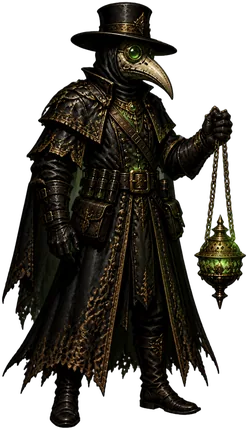
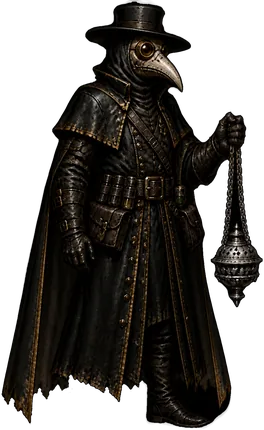
Médecin de peste : armure palier V repeinte (cuir et laiton, sans aura)
Claude-Session: https://claude.ai/code/session_01XuxscubMSQPeew8BrSfQGu

diff --git a/index.html b/index.html
@@ -242,7 +242,7 @@ p{margin:6px 0;line-height:1.45}
 <div id="boot"><div class="bootin"><img src="assets/ui_emblem.webp" alt="" onerror="this.remove()"><h1>Couronne de Cendres</h1><div class="bootbar"><i></i></div><div class="boottxt">Les braises s'allument…</div><button class="btn ghost sm" id="bootskip" style="display:none">Continuer sans attendre</button></div></div>
 <div id="toasts" aria-live="polite"></div>
 <script>window.CC_SW = 1;</script><script>
-window.ART_LIST=["bg_abime","bg_bastion","bg_bastion2","bg_bastion_port","bg_bastion_port_src","bg_bourg","bg_catacombes","bg_cimes","bg_citadelle","bg_cite","bg_foret","bg_marais","bg_mines","bg_terres","bg_titre","bg_trone","bg_worldmap","bld_academie","bld_academie_2","bld_academie_3","bld_chapelle","bld_chapelle_2","bld_chapelle_3","bld_fonderie","bld_fonderie_2","bld_fonderie_3","bld_forge","bld_forge_2","bld_forge_3","bld_menagerie","bld_menagerie_2","bld_menagerie_3","bld_porte","bld_taverne","bld_taverne_2","bld_taverne_3","hero_arbaletriere_chasseresse","hero_arbaletriere_t1","hero_arbaletriere_t2","hero_arbaletriere_t3","hero_arbaletriere_t4","hero_arbaletriere_t5","hero_arbaletriere_tireuse_elite","hero_berserker_chef_guerre","hero_berserker_ecorcheur","hero_berserker_t1","hero_berserker_t2","hero_berserker_t3","hero_berserker_t4","hero_berserker_t5","hero_chasseur_sorcieres_purificateur","hero_chasseur_sorcieres_t1","hero_chasseur_sorcieres_t2","hero_chasseur_sorcieres_t3","hero_chasseur_sorcieres_t4","hero_chasseur_sorcieres_t5","hero_chasseur_sorcieres_traqueur","hero_exorciste_confesseur","hero_exorciste_penitent","hero_exorciste_t1","hero_exorciste_t2","hero_exorciste_t3","hero_exorciste_t4","hero_exorciste_t5","hero_gardien_runes_forge_tonnerre","hero_gardien_runes_t1","hero_gardien_runes_t2","hero_gardien_runes_t3","hero_gardien_runes_t4","hero_gardien_runes_t5","hero_gardien_runes_thane_pierre","hero_hallebardier_garde_roi","hero_hallebardier_lansquenet","hero_hallebardier_t1","hero_hallebardier_t2","hero_hallebardier_t3","hero_hallebardier_t4","hero_hallebardier_t5","hero_medecin_peste_apothicaire","hero_medecin_peste_chirurgien","hero_medecin_peste_t1","hero_medecin_peste_t2","hero_medecin_peste_t3","hero_medecin_peste_t4","hero_medecin_peste_t5","hero_menestrel_chantre","hero_menestrel_heraut","hero_menestrel_t1","hero_menestrel_t2","hero_menestrel_t3","hero_menestrel_t4","hero_menestrel_t5","hero_necromancien_liche","hero_necromancien_maitre_tombes","hero_necromancien_t1","hero_necromancien_t2","hero_necromancien_t3","hero_necromancien_t4","hero_necromancien_t5","hero_ombre_assassin","hero_ombre_ombre_sang","hero_ombre_t1","hero_ombre_t2","hero_ombre_t3","hero_ombre_t4","hero_ombre_t5","hero_pretresse_martyre","hero_pretresse_sainte","hero_pretresse_t1","hero_pretresse_t2","hero_pretresse_t3","hero_pretresse_t4","hero_pretresse_t5","hero_pyromancien_archimage","hero_pyromancien_demoniste","hero_pyromancien_t1","hero_pyromancien_t2","hero_pyromancien_t3","hero_pyromancien_t4","hero_pyromancien_t5","hero_revenant_seigneur_sang","hero_revenant_spectre","hero_revenant_t1","hero_revenant_t2","hero_revenant_t3","hero_revenant_t4","hero_revenant_t5","hero_sorciere_druidesse","hero_sorciere_sorciere_noire","hero_sorciere_t1","hero_sorciere_t2","hero_sorciere_t3","hero_sorciere_t4","hero_sorciere_t5","hero_templier_bastion","hero_templier_inquisiteur","hero_templier_t1","hero_templier_t2","hero_templier_t3","hero_templier_t4","hero_templier_t5","map_boss","map_camp","map_combat","map_elite","map_event","map_shop","map_treasure","mon_abbe","mon_alpha","mon_anguille_ombre","mon_araignee","mon_archer","mon_archer_os","mon_archonte_cendres","mon_boucher","mon_bouffon_roi","mon_bourreau","mon_brigand","mon_cardinal","mon_champion_roi","mon_charognard","mon_chauve_souris","mon_chevalier_couronne","mon_chevalier_dechu","mon_chevalier_os","mon_chevaucheur_calcine","mon_chien_cendre","mon_coeur_montagne","mon_colosse_braise","mon_contremaitre","mon_crabe_geant","mon_crapaud","mon_cultiste","mon_devoreur_lumiere","mon_diablotin","mon_docteur","mon_dryade","mon_follet","mon_fondeur_maudit","mon_garde_spectral","mon_gargouille","mon_golem","mon_golem_fer","mon_goule","mon_hallebardier_os","mon_heraut_neant","mon_homme_poisson","mon_horreur","mon_hydre","mon_inquisiteur","mon_jarl_mort","mon_leviathan","mon_liche","mon_loup","mon_loup_givre","mon_matrone_os","mon_mere_noyes","mon_mere_ronces","mon_mineur_possede","mon_moine_flagellant","mon_necrophage","mon_noye","mon_noyee_chantante","mon_oeil","mon_ogre","mon_pecheur","mon_pendu","mon_penitent_ardent","mon_pestifere","mon_pretre_abysses","mon_pretre_suie","mon_prieur","mon_profond","mon_rat","mon_reine_hiver","mon_reine_sabbat","mon_revenant_glace","mon_roi","mon_roi_noye","mon_roi_vide","mon_sangsue","mon_sans_nom","mon_sans_visage","mon_sentinelle_obsidienne","mon_seraphin_dechu","mon_sorcier_givre","mon_sorciere_marais","mon_spectre","mon_spectre_blizzard","mon_squelette","mon_thuriferaire","mon_troll_givre","mon_ver_roche","pet_araignee","pet_araignee_evo","pet_belette","pet_cerf","pet_cerf_evo","pet_chat_noir","pet_chat_noir_evo","pet_chauve_souris","pet_chauve_souris_evo","pet_chouette","pet_chouette_evo","pet_corbeau","pet_corbeau_evo","pet_crapaud","pet_crapaud_evo","pet_drake","pet_drake_evo","pet_feu_follet","pet_feu_follet_evo","pet_gargouille","pet_gargouille_evo","pet_griffon","pet_griffon_evo","pet_loup","pet_loup_evo","pet_molosse","pet_molosse_evo","pet_ours","pet_ours_evo","pet_renard","pet_renard_evo","pet_salamandre","pet_salamandre_evo","pet_sanglier","pet_sanglier_evo","pet_vipere","pet_vipere_evo","por_anselme","por_capitaine","por_maugrin","por_ysolde","tr_amulette_sel","tr_bague_fer","tr_cape_brume","tr_chapelet","tr_cloche_morte","tr_coeur_braise","tr_coeur_roi","tr_couronne_epines","tr_crane_saint","tr_croc_vampire","tr_dent_loup","tr_ecu_brise","tr_fiole_sang","tr_fragment_couronne","tr_gant_bourreau","tr_griffe_ombre","tr_herbe_rare","tr_oeil_abime","tr_oeil_verre","tr_phylactere","tr_pierre_ame","tr_plume_corbeau","tr_relique_aube","tr_sablier","tr_sceau_rouge","ui_aim","ui_amulet","ui_anvil","ui_armor","ui_atlas","ui_axe","ui_back","ui_bag","ui_banner","ui_bark","ui_bell","ui_bird","ui_bless","ui_blood","ui_bolt","ui_bones","ui_book","ui_boom","ui_camp","ui_castle","ui_chain","ui_chapel","ui_charge","ui_chest","ui_claw","ui_cleanse","ui_cloak","ui_coin","ui_crown","ui_cup","ui_curse","ui_dagger","ui_daily","ui_dice","ui_drain","ui_ember","ui_emblem","ui_essence","ui_eye","ui_fang","ui_fear","ui_feather","ui_fire","ui_flames","ui_flare","ui_flask","ui_flee","ui_frost","ui_furnace","ui_gear","ui_gem","ui_ghost","ui_glove","ui_guard","ui_hammer","ui_hand","ui_heal","ui_heart","ui_helm","ui_herb","ui_horn","ui_hourglass","ui_iron","ui_knives","ui_link","ui_lock","ui_lute","ui_mace","ui_map","ui_mark","ui_mask","ui_meteor","ui_moon","ui_music","ui_note","ui_pact","ui_paw","ui_pawn","ui_pierce","ui_pillar","ui_potion","ui_quest","ui_rage","ui_rain","ui_ray","ui_ring","ui_riposte","ui_root","ui_rosary","ui_run","ui_sanct","ui_scroll","ui_scythe","ui_seal","ui_shard","ui_shield","ui_shroud","ui_skull","ui_skullc","ui_smoke","ui_sound","ui_star","ui_stun","ui_sun","ui_sword","ui_swords","ui_tavern","ui_thorn","ui_torch","ui_trap","ui_tree","ui_trophy","ui_vial","ui_wall","ui_weapon","ui_whirl","ui_wind","wpn_arbalete","wpn_baton","wpn_croix","wpn_dagues","wpn_encensoir","wpn_espadon","wpn_faucille","wpn_faux","wpn_grimoire","wpn_hache","wpn_hallebarde","wpn_luth","wpn_marteau","wpn_masse","wpn_rapiere"];window.ART_META={"hero_arbaletriere_chasseresse": 0.019,"hero_arbaletriere_t1": 0.009,"hero_arbaletriere_t2": 0.009,"hero_arbaletriere_t3": 0.007,"hero_arbaletriere_t4": 0.007,"hero_arbaletriere_t5": 0.007,"hero_arbaletriere_tireuse_elite": 0.007,"hero_berserker_chef_guerre": 0.03,"hero_berserker_ecorcheur": 0.007,"hero_berserker_t1": 0.014,"hero_berserker_t2": 0.009,"hero_berserker_t3": 0.009,"hero_berserker_t4": 0.007,"hero_berserker_t5": 0.007,"hero_chasseur_sorcieres_purificateur": 0.056,"hero_chasseur_sorcieres_t1": 0.007,"hero_chasseur_sorcieres_t2": 0.009,"hero_chasseur_sorcieres_t3": 0.007,"hero_chasseur_sorcieres_t4": 0.007,"hero_chasseur_sorcieres_t5": 0.012,"hero_chasseur_sorcieres_traqueur": 0.007,"hero_exorciste_confesseur": 0.005,"hero_exorciste_penitent": 0.028,"hero_exorciste_t1": 0.04,"hero_exorciste_t2": 0.065,"hero_exorciste_t3": 0.074,"hero_exorciste_t4": 0.072,"hero_exorciste_t5": 0.03,"hero_gardien_runes_forge_tonnerre": 0.023,"hero_gardien_runes_t1": 0.014,"hero_gardien_runes_t2": 0.012,"hero_gardien_runes_t3": 0.014,"hero_gardien_runes_t4": 0.014,"hero_gardien_runes_t5": 0.014,"hero_gardien_runes_thane_pierre": 0.014,"hero_hallebardier_garde_roi": 0.016,"hero_hallebardier_lansquenet": 0.028,"hero_hallebardier_t1": 0.012,"hero_hallebardier_t2": 0.012,"hero_hallebardier_t3": 0.012,"hero_hallebardier_t4": 0.021,"hero_hallebardier_t5": 0.014,"hero_medecin_peste_apothicaire": 0.005,"hero_medecin_peste_chirurgien": 0.005,"hero_medecin_peste_t1": 0.007,"hero_medecin_peste_t2": 0.005,"hero_medecin_peste_t3": 0.005,"hero_medecin_peste_t4": 0.005,"hero_medecin_peste_t5": 0.005,"hero_menestrel_chantre": 0.007,"hero_menestrel_heraut": 0.13,"hero_menestrel_t1": 0.007,"hero_menestrel_t2": 0.005,"hero_menestrel_t3": 0.007,"hero_menestrel_t4": 0.012,"hero_menestrel_t5": 0.007,"hero_necromancien_liche": 0.014,"hero_necromancien_maitre_tombes": 0.079,"hero_necromancien_t1": 0.009,"hero_necromancien_t2": 0.016,"hero_necromancien_t3": 0.016,"hero_necromancien_t4": 0.016,"hero_necromancien_t5": 0.005,"hero_ombre_assassin": 0.007,"hero_ombre_ombre_sang": 0.009,"hero_ombre_t1": 0.009,"hero_ombre_t2": 0.009,"hero_ombre_t3": 0.009,"hero_ombre_t4": 0.009,"hero_ombre_t5": 0.007,"hero_pretresse_martyre": 0.102,"hero_pretresse_sainte": 0.07,"hero_pretresse_t1": 0.079,"hero_pretresse_t2": 0.1,"hero_pretresse_t3": 0.121,"hero_pretresse_t4": 0.091,"hero_pretresse_t5": 0.06,"hero_pyromancien_archimage": 0.007,"hero_pyromancien_demoniste": 0.051,"hero_pyromancien_t1": 0.009,"hero_pyromancien_t2": 0.007,"hero_pyromancien_t3": 0.007,"hero_pyromancien_t4": 0.007,"hero_pyromancien_t5": 0.009,"hero_revenant_seigneur_sang": 0.151,"hero_revenant_spectre": 0.114,"hero_revenant_t1": 0.109,"hero_revenant_t2": 0.151,"hero_revenant_t3": 0.156,"hero_revenant_t4": 0.149,"hero_revenant_t5": 0.095,"hero_sorciere_druidesse": 0.051,"hero_sorciere_sorciere_noire": 0.028,"hero_sorciere_t1": 0.007,"hero_sorciere_t2": 0.014,"hero_sorciere_t3": 0.012,"hero_sorciere_t4": 0.009,"hero_sorciere_t5": 0.019,"hero_templier_bastion": 0.021,"hero_templier_inquisiteur": 0.007,"hero_templier_t1": 0.007,"hero_templier_t2": 0.007,"hero_templier_t3": 0.005,"hero_templier_t4": 0.026,"hero_templier_t5": 0.009};window.ART_CX={"hero_arbaletriere_chasseresse":0.413,"hero_arbaletriere_t1":0.377,"hero_arbaletriere_t2":0.376,"hero_arbaletriere_t3":0.379,"hero_arbaletriere_t4":0.353,"hero_arbaletriere_t5":0.43,"hero_arbaletriere_tireuse_elite":0.329,"hero_berserker_ecorcheur":0.532,"hero_berserker_t2":0.538,"hero_chasseur_sorcieres_purificateur":0.444,"hero_chasseur_sorcieres_t1":0.307,"hero_chasseur_sorcieres_t2":0.333,"hero_chasseur_sorcieres_t3":0.335,"hero_chasseur_sorcieres_t4":0.39,"hero_chasseur_sorcieres_t5":0.439,"hero_chasseur_sorcieres_traqueur":0.395,"hero_exorciste_penitent":0.372,"hero_exorciste_t1":0.55,"hero_exorciste_t2":0.551,"hero_exorciste_t4":0.538,"hero_gardien_runes_forge_tonnerre":0.54,"hero_gardien_runes_t1":0.587,"hero_gardien_runes_t3":0.545,"hero_hallebardier_garde_roi":0.441,"hero_hallebardier_lansquenet":0.467,"hero_hallebardier_t1":0.43,"hero_hallebardier_t2":0.433,"hero_hallebardier_t3":0.429,"hero_hallebardier_t4":0.434,"hero_hallebardier_t5":0.463,"hero_medecin_peste_apothicaire":0.446,"hero_medecin_peste_chirurgien":0.447,"hero_medecin_peste_t1":0.447,"hero_medecin_peste_t2":0.453,"hero_medecin_peste_t3":0.446,"hero_medecin_peste_t4":0.463,"hero_medecin_peste_t5":0.451,"hero_menestrel_t1":0.46,"hero_menestrel_t3":0.468,"hero_menestrel_t5":0.432,"hero_necromancien_liche":0.53,"hero_necromancien_maitre_tombes":0.531,"hero_necromancien_t1":0.535,"hero_necromancien_t2":0.565,"hero_necromancien_t3":0.54,"hero_necromancien_t4":0.537,"hero_necromancien_t5":0.533,"hero_ombre_assassin":0.605,"hero_ombre_ombre_sang":0.56,"hero_ombre_t1":0.551,"hero_ombre_t2":0.571,"hero_ombre_t3":0.557,"hero_ombre_t4":0.598,"hero_ombre_t5":0.62,"hero_pretresse_t1":0.538,"hero_pyromancien_demoniste":0.453,"hero_revenant_seigneur_sang":0.376,"hero_revenant_spectre":0.397,"hero_revenant_t1":0.376,"hero_revenant_t2":0.371,"hero_revenant_t3":0.368,"hero_revenant_t4":0.374,"hero_revenant_t5":0.403,"hero_sorciere_druidesse":0.547,"hero_sorciere_t1":0.592,"hero_sorciere_t2":0.605,"hero_sorciere_t3":0.571,"hero_sorciere_t4":0.558,"hero_sorciere_t5":0.603,"hero_templier_inquisiteur":0.47,"hero_templier_t1":0.542,"mon_abbe":0.468,"mon_anguille_ombre":0.538,"mon_araignee":0.463,"mon_archer":0.606,"mon_archer_os":0.392,"mon_boucher":0.538,"mon_bouffon_roi":0.651,"mon_cardinal":0.591,"mon_charognard":0.537,"mon_chauve_souris":0.443,"mon_chevalier_couronne":0.577,"mon_chevalier_dechu":0.587,"mon_chevalier_os":0.538,"mon_chevaucheur_calcine":0.592,"mon_chien_cendre":0.56,"mon_coeur_montagne":0.448,"mon_colosse_braise":0.448,"mon_crapaud":0.537,"mon_cultiste":0.538,"mon_devoreur_lumiere":0.53,"mon_dryade":0.551,"mon_fondeur_maudit":0.619,"mon_garde_spectral":0.627,"mon_goule":0.557,"mon_hallebardier_os":0.609,"mon_heraut_neant":0.633,"mon_homme_poisson":0.683,"mon_inquisiteur":0.457,"mon_jarl_mort":0.458,"mon_loup":0.447,"mon_mere_noyes":0.47,"mon_mineur_possede":0.634,"mon_necrophage":0.553,"mon_noyee_chantante":0.531,"mon_ogre":0.447,"mon_pendu":0.615,"mon_penitent_ardent":0.553,"mon_pestifere":0.653,"mon_profond":0.607,"mon_reine_sabbat":0.465,"mon_revenant_glace":0.607,"mon_roi":0.559,"mon_roi_noye":0.404,"mon_roi_vide":0.56,"mon_sangsue":0.45,"mon_sans_visage":0.551,"mon_sentinelle_obsidienne":0.556,"mon_sorcier_givre":0.61,"mon_sorciere_marais":0.605,"mon_spectre":0.539,"mon_squelette":0.581,"mon_thuriferaire":0.606,"mon_troll_givre":0.587,"mon_ver_roche":0.538,"pet_araignee_evo":0.453,"pet_belette":0.433,"pet_chat_noir":0.463,"pet_chouette":0.559,"pet_corbeau":0.47,"pet_corbeau_evo":0.463,"pet_crapaud":0.437,"pet_crapaud_evo":0.467,"pet_drake":0.453,"pet_griffon":0.557,"pet_griffon_evo":0.557,"pet_loup":0.43,"pet_loup_evo":0.45,"pet_ours_evo":0.463,"pet_renard_evo":0.467,"pet_salamandre":0.47,"pet_sanglier":0.537,"pet_sanglier_evo":0.457,"pet_vipere":0.53};window.ART_FACE={"mon_abbe":[0.412,0.145,0.258],"mon_alpha":[0.1,0.58,0.4],"mon_anguille_ombre":[0.447,0.124,0.27],"mon_araignee":[0.493,0.29,0.429],"mon_archer":[0.541,0.206,0.244],"mon_archer_os":[0.34,0.246,0.224],"mon_archonte_cendres":[0.37,0.22,0.15],"mon_boucher":[0.608,0.176,0.354],"mon_bouffon_roi":[0.478,0.183,0.223],"mon_bourreau":[0.61,0.127,0.268],"mon_brigand":[0.392,0.127,0.268],"mon_cardinal":[0.527,0.178,0.248],"mon_champion_roi":[0.36,0.124,0.27],"mon_charognard":[0.13,0.45,0.28],"mon_chauve_souris":[0.304,0.639,0.561],"mon_chevalier_couronne":[0.538,0.172,0.255],"mon_chevalier_dechu":[0.515,0.196,0.244],"mon_chevalier_os":[0.56,0.136,0.244],"mon_chevaucheur_calcine":[0.58,0.12,0.18],"mon_chien_cendre":[0.203,0.286,0.394],"mon_coeur_montagne":[0.3,0.17,0.22],"mon_colosse_braise":[0.42,0.13,0.2],"mon_contremaitre":[0.533,0.124,0.27],"mon_crabe_geant":[0.45,0.4,0.5],"mon_crapaud":[0.326,0.284,0.586],"mon_cultiste":[0.596,0.127,0.268],"mon_devoreur_lumiere":[0.22,0.2,0.3],"mon_diablotin":[0.25,0.3,0.25],"mon_docteur":[0.465,0.146,0.239],"mon_dryade":[0.468,0.164,0.255],"mon_follet":[0.5,0.6,0.35],"mon_fondeur_maudit":[0.596,0.127,0.269],"mon_garde_spectral":[0.635,0.316,0.208],"mon_gargouille":[0.24,0.36,0.27],"mon_golem":[0.3,0.15,0.24],"mon_golem_fer":[0.553,0.189,0.346],"mon_goule":[0.354,0.119,0.252],"mon_hallebardier_os":[0.531,0.152,0.177],"mon_heraut_neant":[0.565,0.173,0.357],"mon_homme_poisson":[0.585,0.234,0.325],"mon_horreur":[0.476,0.273,0.304],"mon_hydre":[0.365,0.167,0.32],"mon_inquisiteur":[0.422,0.179,0.252],"mon_jarl_mort":[0.22,0.14,0.17],"mon_leviathan":[0.474,0.175,0.352],"mon_liche":[0.503,0.199,0.245],"mon_loup":[0.13,0.47,0.45],"mon_loup_givre":[0.15,0.42,0.4],"mon_matrone_os":[0.536,0.173,0.253],"mon_mere_noyes":[0.463,0.184,0.349],"mon_mere_ronces":[0.465,0.202,0.331],"mon_mineur_possede":[0.491,0.139,0.266],"mon_moine_flagellant":[0.435,0.111,0.233],"mon_necrophage":[0.436,0.127,0.261],"mon_noye":[0.522,0.127,0.268],"mon_noyee_chantante":[0.382,0.13,0.268],"mon_oeil":[0.481,0.152,0.215],"mon_ogre":[0.467,0.167,0.356],"mon_pecheur":[0.488,0.173,0.238],"mon_pendu":[0.338,0.17,0.254],"mon_penitent_ardent":[0.529,0.173,0.251],"mon_pestifere":[0.533,0.133,0.266],"mon_pretre_abysses":[0.551,0.18,0.354],"mon_pretre_suie":[0.488,0.132,0.265],"mon_prieur":[0.499,0.141,0.264],"mon_profond":[0.38,0.2,0.18],"mon_rat":[0.13,0.47,0.5],"mon_reine_hiver":[0.533,0.181,0.205],"mon_reine_sabbat":[0.476,0.188,0.249],"mon_revenant_glace":[0.564,0.172,0.298],"mon_roi":[0.546,0.166,0.253],"mon_roi_noye":[0.416,0.215,0.242],"mon_roi_vide":[0.59,0.199,0.346],"mon_sangsue":[0.264,0.17,0.355],"mon_sans_nom":[0.509,0.213,0.239],"mon_sans_visage":[0.479,0.201,0.343],"mon_sentinelle_obsidienne":[0.562,0.158,0.257],"mon_seraphin_dechu":[0.15,0.15,0.16],"mon_sorcier_givre":[0.468,0.221,0.24],"mon_sorciere_marais":[0.492,0.235,0.235],"mon_spectre":[0.434,0.112,0.237],"mon_spectre_blizzard":[0.3,0.12,0.18],"mon_squelette":[0.436,0.106,0.208],"mon_thuriferaire":[0.588,0.175,0.213],"mon_troll_givre":[0.44,0.2,0.3],"mon_ver_roche":[0.368,0.168,0.358],"pet_araignee":[0.675,0.45,0.442],"pet_araignee_evo":[0.695,0.49,0.464],"pet_belette":[0.753,0.292,0.599],"pet_cerf":[0.778,0.203,0.23],"pet_cerf_evo":[0.72,0.42,0.2],"pet_chat_noir":[0.733,0.327,0.599],"pet_chat_noir_evo":[0.729,0.353,0.453],"pet_chauve_souris":[0.55,0.55,0.4],"pet_chauve_souris_evo":[0.5,0.4,0.4],"pet_chouette":[0.74,0.33,0.25],"pet_chouette_evo":[0.6,0.42,0.18],"pet_corbeau":[0.742,0.152,0.315],"pet_corbeau_evo":[0.733,0.166,0.323],"pet_crapaud":[0.703,0.289,0.581],"pet_crapaud_evo":[0.675,0.31,0.562],"pet_drake":[0.733,0.208,0.331],"pet_drake_evo":[0.731,0.389,0.543],"pet_feu_follet":[0.45,0.52,0.3],"pet_feu_follet_evo":[0.45,0.52,0.25],"pet_gargouille":[0.75,0.32,0.38],"pet_gargouille_evo":[0.74,0.45,0.32],"pet_griffon":[0.84,0.27,0.3],"pet_griffon_evo":[0.84,0.2,0.27],"pet_loup":[0.742,0.248,0.437],"pet_loup_evo":[0.739,0.303,0.588],"pet_molosse":[0.816,0.173,0.352],"pet_molosse_evo":[0.709,0.171,0.354],"pet_ours":[0.729,0.29,0.593],"pet_ours_evo":[0.7,0.284,0.601],"pet_renard":[0.745,0.305,0.588],"pet_renard_evo":[0.69,0.507,0.467],"pet_salamandre":[0.87,0.45,0.45],"pet_salamandre_evo":[0.87,0.45,0.45],"pet_sanglier":[0.84,0.55,0.55],"pet_sanglier_evo":[0.82,0.68,0.5],"pet_vipere":[0.78,0.22,0.28],"pet_vipere_evo":[0.72,0.27,0.3]};window.UI_ATLAS={"c":12,"r":10,"s":96,"n":{"aim":0,"amulet":1,"anvil":2,"armor":3,"axe":4,"back":5,"bag":6,"banner":7,"bark":8,"bell":9,"bird":10,"bless":11,"blood":12,"bolt":13,"bones":14,"book":15,"boom":16,"camp":17,"castle":18,"chain":19,"chapel":20,"charge":21,"chest":22,"claw":23,"cleanse":24,"cloak":25,"coin":26,"crown":27,"cup":28,"curse":29,"dagger":30,"daily":31,"dice":32,"drain":33,"ember":34,"essence":35,"eye":36,"fang":37,"fear":38,"feather":39,"fire":40,"flames":41,"flare":42,"flask":43,"flee":44,"frost":45,"furnace":46,"gear":47,"gem":48,"ghost":49,"glove":50,"guard":51,"hammer":52,"hand":53,"heal":54,"heart":55,"helm":56,"herb":57,"horn":58,"hourglass":59,"iron":60,"knives":61,"link":62,"lock":63,"lute":64,"mace":65,"map":66,"mark":67,"mask":68,"meteor":69,"moon":70,"music":71,"note":72,"pact":73,"paw":74,"pierce":75,"pillar":76,"potion":77,"quest":78,"rage":79,"rain":80,"ray":81,"ring":82,"riposte":83,"root":84,"rosary":85,"run":86,"sanct":87,"scroll":88,"scythe":89,"seal":90,"shard":91,"shield":92,"shroud":93,"skull":94,"skullc":95,"smoke":96,"sound":97,"star":98,"stun":99,"sun":100,"sword":101,"swords":102,"tavern":103,"thorn":104,"torch":105,"trap":106,"tree":107,"trophy":108,"vial":109,"wall":110,"weapon":111,"whirl":112,"wind":113}};window.SFX_LIST=["amb_abime","amb_bastion","amb_bourg","amb_catacombes","amb_cimes","amb_citadelle","amb_cite","amb_foret","amb_marais","amb_mines","amb_terres","amb_trone","fx_bell_1","fx_bleed_1","fx_bleed_2","fx_block_1","fx_block_2","fx_buff_1","fx_click_1","fx_coin_1","fx_coin_2","fx_crit_1","fx_crit_2","fx_dark_1","fx_dark_2","fx_dark_3","fx_debuff_1","fx_debuff_2","fx_die_1","fx_die_2","fx_door_1","fx_door_2","fx_fall_1","fx_fire_1","fx_fire_2","fx_fire_3","fx_forge_1","fx_forge_2","fx_frost_1","fx_frost_2","fx_heal_1","fx_heal_2","fx_heal_3","fx_heal_4","fx_heavy_1","fx_heavy_2","fx_hit_1","fx_hit_2","fx_hit_3","fx_hit_4","fx_holy_1","fx_holy_2","fx_holy_3","fx_level_1","fx_lose_1","fx_miss_1","fx_miss_2","fx_open_1","fx_poison_1","fx_poison_2","fx_shock_1","fx_shock_2","fx_shoot_1","fx_shoot_2","fx_slash_1","fx_slash_2","fx_slash_3","fx_step_1","fx_step_2","fx_step_3","fx_stun_1","fx_ult_1","fx_win_1"];window.ART_FLIP=["mon_archer_os","mon_moine_flagellant","mon_spectre","hero_ombre_assassin","hero_ombre_ombre_sang","mon_cardinal"];
+window.ART_LIST=["bg_abime","bg_bastion","bg_bastion2","bg_bastion_port","bg_bastion_port_src","bg_bourg","bg_catacombes","bg_cimes","bg_citadelle","bg_cite","bg_foret","bg_marais","bg_mines","bg_terres","bg_titre","bg_trone","bg_worldmap","bld_academie","bld_academie_2","bld_academie_3","bld_chapelle","bld_chapelle_2","bld_chapelle_3","bld_fonderie","bld_fonderie_2","bld_fonderie_3","bld_forge","bld_forge_2","bld_forge_3","bld_menagerie","bld_menagerie_2","bld_menagerie_3","bld_porte","bld_taverne","bld_taverne_2","bld_taverne_3","hero_arbaletriere_chasseresse","hero_arbaletriere_t1","hero_arbaletriere_t2","hero_arbaletriere_t3","hero_arbaletriere_t4","hero_arbaletriere_t5","hero_arbaletriere_tireuse_elite","hero_berserker_chef_guerre","hero_berserker_ecorcheur","hero_berserker_t1","hero_berserker_t2","hero_berserker_t3","hero_berserker_t4","hero_berserker_t5","hero_chasseur_sorcieres_purificateur","hero_chasseur_sorcieres_t1","hero_chasseur_sorcieres_t2","hero_chasseur_sorcieres_t3","hero_chasseur_sorcieres_t4","hero_chasseur_sorcieres_t5","hero_chasseur_sorcieres_traqueur","hero_exorciste_confesseur","hero_exorciste_penitent","hero_exorciste_t1","hero_exorciste_t2","hero_exorciste_t3","hero_exorciste_t4","hero_exorciste_t5","hero_gardien_runes_forge_tonnerre","hero_gardien_runes_t1","hero_gardien_runes_t2","hero_gardien_runes_t3","hero_gardien_runes_t4","hero_gardien_runes_t5","hero_gardien_runes_thane_pierre","hero_hallebardier_garde_roi","hero_hallebardier_lansquenet","hero_hallebardier_t1","hero_hallebardier_t2","hero_hallebardier_t3","hero_hallebardier_t4","hero_hallebardier_t5","hero_medecin_peste_apothicaire","hero_medecin_peste_chirurgien","hero_medecin_peste_t1","hero_medecin_peste_t2","hero_medecin_peste_t3","hero_medecin_peste_t4","hero_medecin_peste_t5","hero_menestrel_chantre","hero_menestrel_heraut","hero_menestrel_t1","hero_menestrel_t2","hero_menestrel_t3","hero_menestrel_t4","hero_menestrel_t5","hero_necromancien_liche","hero_necromancien_maitre_tombes","hero_necromancien_t1","hero_necromancien_t2","hero_necromancien_t3","hero_necromancien_t4","hero_necromancien_t5","hero_ombre_assassin","hero_ombre_ombre_sang","hero_ombre_t1","hero_ombre_t2","hero_ombre_t3","hero_ombre_t4","hero_ombre_t5","hero_pretresse_martyre","hero_pretresse_sainte","hero_pretresse_t1","hero_pretresse_t2","hero_pretresse_t3","hero_pretresse_t4","hero_pretresse_t5","hero_pyromancien_archimage","hero_pyromancien_demoniste","hero_pyromancien_t1","hero_pyromancien_t2","hero_pyromancien_t3","hero_pyromancien_t4","hero_pyromancien_t5","hero_revenant_seigneur_sang","hero_revenant_spectre","hero_revenant_t1","hero_revenant_t2","hero_revenant_t3","hero_revenant_t4","hero_revenant_t5","hero_sorciere_druidesse","hero_sorciere_sorciere_noire","hero_sorciere_t1","hero_sorciere_t2","hero_sorciere_t3","hero_sorciere_t4","hero_sorciere_t5","hero_templier_bastion","hero_templier_inquisiteur","hero_templier_t1","hero_templier_t2","hero_templier_t3","hero_templier_t4","hero_templier_t5","map_boss","map_camp","map_combat","map_elite","map_event","map_shop","map_treasure","mon_abbe","mon_alpha","mon_anguille_ombre","mon_araignee","mon_archer","mon_archer_os","mon_archonte_cendres","mon_boucher","mon_bouffon_roi","mon_bourreau","mon_brigand","mon_cardinal","mon_champion_roi","mon_charognard","mon_chauve_souris","mon_chevalier_couronne","mon_chevalier_dechu","mon_chevalier_os","mon_chevaucheur_calcine","mon_chien_cendre","mon_coeur_montagne","mon_colosse_braise","mon_contremaitre","mon_crabe_geant","mon_crapaud","mon_cultiste","mon_devoreur_lumiere","mon_diablotin","mon_docteur","mon_dryade","mon_follet","mon_fondeur_maudit","mon_garde_spectral","mon_gargouille","mon_golem","mon_golem_fer","mon_goule","mon_hallebardier_os","mon_heraut_neant","mon_homme_poisson","mon_horreur","mon_hydre","mon_inquisiteur","mon_jarl_mort","mon_leviathan","mon_liche","mon_loup","mon_loup_givre","mon_matrone_os","mon_mere_noyes","mon_mere_ronces","mon_mineur_possede","mon_moine_flagellant","mon_necrophage","mon_noye","mon_noyee_chantante","mon_oeil","mon_ogre","mon_pecheur","mon_pendu","mon_penitent_ardent","mon_pestifere","mon_pretre_abysses","mon_pretre_suie","mon_prieur","mon_profond","mon_rat","mon_reine_hiver","mon_reine_sabbat","mon_revenant_glace","mon_roi","mon_roi_noye","mon_roi_vide","mon_sangsue","mon_sans_nom","mon_sans_visage","mon_sentinelle_obsidienne","mon_seraphin_dechu","mon_sorcier_givre","mon_sorciere_marais","mon_spectre","mon_spectre_blizzard","mon_squelette","mon_thuriferaire","mon_troll_givre","mon_ver_roche","pet_araignee","pet_araignee_evo","pet_belette","pet_cerf","pet_cerf_evo","pet_chat_noir","pet_chat_noir_evo","pet_chauve_souris","pet_chauve_souris_evo","pet_chouette","pet_chouette_evo","pet_corbeau","pet_corbeau_evo","pet_crapaud","pet_crapaud_evo","pet_drake","pet_drake_evo","pet_feu_follet","pet_feu_follet_evo","pet_gargouille","pet_gargouille_evo","pet_griffon","pet_griffon_evo","pet_loup","pet_loup_evo","pet_molosse","pet_molosse_evo","pet_ours","pet_ours_evo","pet_renard","pet_renard_evo","pet_salamandre","pet_salamandre_evo","pet_sanglier","pet_sanglier_evo","pet_vipere","pet_vipere_evo","por_anselme","por_capitaine","por_maugrin","por_ysolde","tr_amulette_sel","tr_bague_fer","tr_cape_brume","tr_chapelet","tr_cloche_morte","tr_coeur_braise","tr_coeur_roi","tr_couronne_epines","tr_crane_saint","tr_croc_vampire","tr_dent_loup","tr_ecu_brise","tr_fiole_sang","tr_fragment_couronne","tr_gant_bourreau","tr_griffe_ombre","tr_herbe_rare","tr_oeil_abime","tr_oeil_verre","tr_phylactere","tr_pierre_ame","tr_plume_corbeau","tr_relique_aube","tr_sablier","tr_sceau_rouge","ui_aim","ui_amulet","ui_anvil","ui_armor","ui_atlas","ui_axe","ui_back","ui_bag","ui_banner","ui_bark","ui_bell","ui_bird","ui_bless","ui_blood","ui_bolt","ui_bones","ui_book","ui_boom","ui_camp","ui_castle","ui_chain","ui_chapel","ui_charge","ui_chest","ui_claw","ui_cleanse","ui_cloak","ui_coin","ui_crown","ui_cup","ui_curse","ui_dagger","ui_daily","ui_dice","ui_drain","ui_ember","ui_emblem","ui_essence","ui_eye","ui_fang","ui_fear","ui_feather","ui_fire","ui_flames","ui_flare","ui_flask","ui_flee","ui_frost","ui_furnace","ui_gear","ui_gem","ui_ghost","ui_glove","ui_guard","ui_hammer","ui_hand","ui_heal","ui_heart","ui_helm","ui_herb","ui_horn","ui_hourglass","ui_iron","ui_knives","ui_link","ui_lock","ui_lute","ui_mace","ui_map","ui_mark","ui_mask","ui_meteor","ui_moon","ui_music","ui_note","ui_pact","ui_paw","ui_pawn","ui_pierce","ui_pillar","ui_potion","ui_quest","ui_rage","ui_rain","ui_ray","ui_ring","ui_riposte","ui_root","ui_rosary","ui_run","ui_sanct","ui_scroll","ui_scythe","ui_seal","ui_shard","ui_shield","ui_shroud","ui_skull","ui_skullc","ui_smoke","ui_sound","ui_star","ui_stun","ui_sun","ui_sword","ui_swords","ui_tavern","ui_thorn","ui_torch","ui_trap","ui_tree","ui_trophy","ui_vial","ui_wall","ui_weapon","ui_whirl","ui_wind","wpn_arbalete","wpn_baton","wpn_croix","wpn_dagues","wpn_encensoir","wpn_espadon","wpn_faucille","wpn_faux","wpn_grimoire","wpn_hache","wpn_hallebarde","wpn_luth","wpn_marteau","wpn_masse","wpn_rapiere"];window.ART_META={"hero_arbaletriere_chasseresse": 0.019,"hero_arbaletriere_t1": 0.009,"hero_arbaletriere_t2": 0.009,"hero_arbaletriere_t3": 0.007,"hero_arbaletriere_t4": 0.007,"hero_arbaletriere_t5": 0.007,"hero_arbaletriere_tireuse_elite": 0.007,"hero_berserker_chef_guerre": 0.03,"hero_berserker_ecorcheur": 0.007,"hero_berserker_t1": 0.014,"hero_berserker_t2": 0.009,"hero_berserker_t3": 0.009,"hero_berserker_t4": 0.007,"hero_berserker_t5": 0.007,"hero_chasseur_sorcieres_purificateur": 0.056,"hero_chasseur_sorcieres_t1": 0.007,"hero_chasseur_sorcieres_t2": 0.009,"hero_chasseur_sorcieres_t3": 0.007,"hero_chasseur_sorcieres_t4": 0.007,"hero_chasseur_sorcieres_t5": 0.012,"hero_chasseur_sorcieres_traqueur": 0.007,"hero_exorciste_confesseur": 0.005,"hero_exorciste_penitent": 0.028,"hero_exorciste_t1": 0.04,"hero_exorciste_t2": 0.065,"hero_exorciste_t3": 0.074,"hero_exorciste_t4": 0.072,"hero_exorciste_t5": 0.03,"hero_gardien_runes_forge_tonnerre": 0.023,"hero_gardien_runes_t1": 0.014,"hero_gardien_runes_t2": 0.012,"hero_gardien_runes_t3": 0.014,"hero_gardien_runes_t4": 0.014,"hero_gardien_runes_t5": 0.014,"hero_gardien_runes_thane_pierre": 0.014,"hero_hallebardier_garde_roi": 0.016,"hero_hallebardier_lansquenet": 0.028,"hero_hallebardier_t1": 0.012,"hero_hallebardier_t2": 0.012,"hero_hallebardier_t3": 0.012,"hero_hallebardier_t4": 0.021,"hero_hallebardier_t5": 0.014,"hero_medecin_peste_apothicaire": 0.005,"hero_medecin_peste_chirurgien": 0.005,"hero_medecin_peste_t1": 0.007,"hero_medecin_peste_t2": 0.005,"hero_medecin_peste_t3": 0.005,"hero_medecin_peste_t4": 0.005,"hero_medecin_peste_t5": 0.007,"hero_menestrel_chantre": 0.007,"hero_menestrel_heraut": 0.13,"hero_menestrel_t1": 0.007,"hero_menestrel_t2": 0.005,"hero_menestrel_t3": 0.007,"hero_menestrel_t4": 0.012,"hero_menestrel_t5": 0.007,"hero_necromancien_liche": 0.014,"hero_necromancien_maitre_tombes": 0.079,"hero_necromancien_t1": 0.009,"hero_necromancien_t2": 0.016,"hero_necromancien_t3": 0.016,"hero_necromancien_t4": 0.016,"hero_necromancien_t5": 0.005,"hero_ombre_assassin": 0.007,"hero_ombre_ombre_sang": 0.009,"hero_ombre_t1": 0.009,"hero_ombre_t2": 0.009,"hero_ombre_t3": 0.009,"hero_ombre_t4": 0.009,"hero_ombre_t5": 0.007,"hero_pretresse_martyre": 0.102,"hero_pretresse_sainte": 0.07,"hero_pretresse_t1": 0.079,"hero_pretresse_t2": 0.1,"hero_pretresse_t3": 0.121,"hero_pretresse_t4": 0.091,"hero_pretresse_t5": 0.06,"hero_pyromancien_archimage": 0.007,"hero_pyromancien_demoniste": 0.051,"hero_pyromancien_t1": 0.009,"hero_pyromancien_t2": 0.007,"hero_pyromancien_t3": 0.007,"hero_pyromancien_t4": 0.007,"hero_pyromancien_t5": 0.009,"hero_revenant_seigneur_sang": 0.151,"hero_revenant_spectre": 0.114,"hero_revenant_t1": 0.109,"hero_revenant_t2": 0.151,"hero_revenant_t3": 0.156,"hero_revenant_t4": 0.149,"hero_revenant_t5": 0.095,"hero_sorciere_druidesse": 0.051,"hero_sorciere_sorciere_noire": 0.028,"hero_sorciere_t1": 0.007,"hero_sorciere_t2": 0.014,"hero_sorciere_t3": 0.012,"hero_sorciere_t4": 0.009,"hero_sorciere_t5": 0.019,"hero_templier_bastion": 0.021,"hero_templier_inquisiteur": 0.007,"hero_templier_t1": 0.007,"hero_templier_t2": 0.007,"hero_templier_t3": 0.005,"hero_templier_t4": 0.026,"hero_templier_t5": 0.009};window.ART_CX={"hero_arbaletriere_chasseresse":0.413,"hero_arbaletriere_t1":0.377,"hero_arbaletriere_t2":0.376,"hero_arbaletriere_t3":0.379,"hero_arbaletriere_t4":0.353,"hero_arbaletriere_t5":0.43,"hero_arbaletriere_tireuse_elite":0.329,"hero_berserker_ecorcheur":0.532,"hero_berserker_t2":0.538,"hero_chasseur_sorcieres_purificateur":0.444,"hero_chasseur_sorcieres_t1":0.307,"hero_chasseur_sorcieres_t2":0.333,"hero_chasseur_sorcieres_t3":0.335,"hero_chasseur_sorcieres_t4":0.39,"hero_chasseur_sorcieres_t5":0.439,"hero_chasseur_sorcieres_traqueur":0.395,"hero_exorciste_penitent":0.372,"hero_exorciste_t1":0.55,"hero_exorciste_t2":0.551,"hero_exorciste_t4":0.538,"hero_gardien_runes_forge_tonnerre":0.54,"hero_gardien_runes_t1":0.587,"hero_gardien_runes_t3":0.545,"hero_hallebardier_garde_roi":0.441,"hero_hallebardier_lansquenet":0.467,"hero_hallebardier_t1":0.43,"hero_hallebardier_t2":0.433,"hero_hallebardier_t3":0.429,"hero_hallebardier_t4":0.434,"hero_hallebardier_t5":0.463,"hero_medecin_peste_apothicaire":0.446,"hero_medecin_peste_chirurgien":0.447,"hero_medecin_peste_t1":0.447,"hero_medecin_peste_t2":0.453,"hero_medecin_peste_t3":0.446,"hero_medecin_peste_t4":0.463,"hero_menestrel_t1":0.46,"hero_menestrel_t3":0.468,"hero_menestrel_t5":0.432,"hero_necromancien_liche":0.53,"hero_necromancien_maitre_tombes":0.531,"hero_necromancien_t1":0.535,"hero_necromancien_t2":0.565,"hero_necromancien_t3":0.54,"hero_necromancien_t4":0.537,"hero_necromancien_t5":0.533,"hero_ombre_assassin":0.605,"hero_ombre_ombre_sang":0.56,"hero_ombre_t1":0.551,"hero_ombre_t2":0.571,"hero_ombre_t3":0.557,"hero_ombre_t4":0.598,"hero_ombre_t5":0.62,"hero_pretresse_t1":0.538,"hero_pyromancien_demoniste":0.453,"hero_revenant_seigneur_sang":0.376,"hero_revenant_spectre":0.397,"hero_revenant_t1":0.376,"hero_revenant_t2":0.371,"hero_revenant_t3":0.368,"hero_revenant_t4":0.374,"hero_revenant_t5":0.403,"hero_sorciere_druidesse":0.547,"hero_sorciere_t1":0.592,"hero_sorciere_t2":0.605,"hero_sorciere_t3":0.571,"hero_sorciere_t4":0.558,"hero_sorciere_t5":0.603,"hero_templier_inquisiteur":0.47,"hero_templier_t1":0.542,"mon_abbe":0.468,"mon_anguille_ombre":0.538,"mon_araignee":0.463,"mon_archer":0.606,"mon_archer_os":0.392,"mon_boucher":0.538,"mon_bouffon_roi":0.651,"mon_cardinal":0.591,"mon_charognard":0.537,"mon_chauve_souris":0.443,"mon_chevalier_couronne":0.577,"mon_chevalier_dechu":0.587,"mon_chevalier_os":0.538,"mon_chevaucheur_calcine":0.592,"mon_chien_cendre":0.56,"mon_coeur_montagne":0.448,"mon_colosse_braise":0.448,"mon_crapaud":0.537,"mon_cultiste":0.538,"mon_devoreur_lumiere":0.53,"mon_dryade":0.551,"mon_fondeur_maudit":0.619,"mon_garde_spectral":0.627,"mon_goule":0.557,"mon_hallebardier_os":0.609,"mon_heraut_neant":0.633,"mon_homme_poisson":0.683,"mon_inquisiteur":0.457,"mon_jarl_mort":0.458,"mon_loup":0.447,"mon_mere_noyes":0.47,"mon_mineur_possede":0.634,"mon_necrophage":0.553,"mon_noyee_chantante":0.531,"mon_ogre":0.447,"mon_pendu":0.615,"mon_penitent_ardent":0.553,"mon_pestifere":0.653,"mon_profond":0.607,"mon_reine_sabbat":0.465,"mon_revenant_glace":0.607,"mon_roi":0.559,"mon_roi_noye":0.404,"mon_roi_vide":0.56,"mon_sangsue":0.45,"mon_sans_visage":0.551,"mon_sentinelle_obsidienne":0.556,"mon_sorcier_givre":0.61,"mon_sorciere_marais":0.605,"mon_spectre":0.539,"mon_squelette":0.581,"mon_thuriferaire":0.606,"mon_troll_givre":0.587,"mon_ver_roche":0.538,"pet_araignee_evo":0.453,"pet_belette":0.433,"pet_chat_noir":0.463,"pet_chouette":0.559,"pet_corbeau":0.47,"pet_corbeau_evo":0.463,"pet_crapaud":0.437,"pet_crapaud_evo":0.467,"pet_drake":0.453,"pet_griffon":0.557,"pet_griffon_evo":0.557,"pet_loup":0.43,"pet_loup_evo":0.45,"pet_ours_evo":0.463,"pet_renard_evo":0.467,"pet_salamandre":0.47,"pet_sanglier":0.537,"pet_sanglier_evo":0.457,"pet_vipere":0.53};window.ART_FACE={"mon_abbe":[0.412,0.145,0.258],"mon_alpha":[0.1,0.58,0.4],"mon_anguille_ombre":[0.447,0.124,0.27],"mon_araignee":[0.493,0.29,0.429],"mon_archer":[0.541,0.206,0.244],"mon_archer_os":[0.34,0.246,0.224],"mon_archonte_cendres":[0.37,0.22,0.15],"mon_boucher":[0.608,0.176,0.354],"mon_bouffon_roi":[0.478,0.183,0.223],"mon_bourreau":[0.61,0.127,0.268],"mon_brigand":[0.392,0.127,0.268],"mon_cardinal":[0.527,0.178,0.248],"mon_champion_roi":[0.36,0.124,0.27],"mon_charognard":[0.13,0.45,0.28],"mon_chauve_souris":[0.304,0.639,0.561],"mon_chevalier_couronne":[0.538,0.172,0.255],"mon_chevalier_dechu":[0.515,0.196,0.244],"mon_chevalier_os":[0.56,0.136,0.244],"mon_chevaucheur_calcine":[0.58,0.12,0.18],"mon_chien_cendre":[0.203,0.286,0.394],"mon_coeur_montagne":[0.3,0.17,0.22],"mon_colosse_braise":[0.42,0.13,0.2],"mon_contremaitre":[0.533,0.124,0.27],"mon_crabe_geant":[0.45,0.4,0.5],"mon_crapaud":[0.326,0.284,0.586],"mon_cultiste":[0.596,0.127,0.268],"mon_devoreur_lumiere":[0.22,0.2,0.3],"mon_diablotin":[0.25,0.3,0.25],"mon_docteur":[0.465,0.146,0.239],"mon_dryade":[0.468,0.164,0.255],"mon_follet":[0.5,0.6,0.35],"mon_fondeur_maudit":[0.596,0.127,0.269],"mon_garde_spectral":[0.635,0.316,0.208],"mon_gargouille":[0.24,0.36,0.27],"mon_golem":[0.3,0.15,0.24],"mon_golem_fer":[0.553,0.189,0.346],"mon_goule":[0.354,0.119,0.252],"mon_hallebardier_os":[0.531,0.152,0.177],"mon_heraut_neant":[0.565,0.173,0.357],"mon_homme_poisson":[0.585,0.234,0.325],"mon_horreur":[0.476,0.273,0.304],"mon_hydre":[0.365,0.167,0.32],"mon_inquisiteur":[0.422,0.179,0.252],"mon_jarl_mort":[0.22,0.14,0.17],"mon_leviathan":[0.474,0.175,0.352],"mon_liche":[0.503,0.199,0.245],"mon_loup":[0.13,0.47,0.45],"mon_loup_givre":[0.15,0.42,0.4],"mon_matrone_os":[0.536,0.173,0.253],"mon_mere_noyes":[0.463,0.184,0.349],"mon_mere_ronces":[0.465,0.202,0.331],"mon_mineur_possede":[0.491,0.139,0.266],"mon_moine_flagellant":[0.435,0.111,0.233],"mon_necrophage":[0.436,0.127,0.261],"mon_noye":[0.522,0.127,0.268],"mon_noyee_chantante":[0.382,0.13,0.268],"mon_oeil":[0.481,0.152,0.215],"mon_ogre":[0.467,0.167,0.356],"mon_pecheur":[0.488,0.173,0.238],"mon_pendu":[0.338,0.17,0.254],"mon_penitent_ardent":[0.529,0.173,0.251],"mon_pestifere":[0.533,0.133,0.266],"mon_pretre_abysses":[0.551,0.18,0.354],"mon_pretre_suie":[0.488,0.132,0.265],"mon_prieur":[0.499,0.141,0.264],"mon_profond":[0.38,0.2,0.18],"mon_rat":[0.13,0.47,0.5],"mon_reine_hiver":[0.533,0.181,0.205],"mon_reine_sabbat":[0.476,0.188,0.249],"mon_revenant_glace":[0.564,0.172,0.298],"mon_roi":[0.546,0.166,0.253],"mon_roi_noye":[0.416,0.215,0.242],"mon_roi_vide":[0.59,0.199,0.346],"mon_sangsue":[0.264,0.17,0.355],"mon_sans_nom":[0.509,0.213,0.239],"mon_sans_visage":[0.479,0.201,0.343],"mon_sentinelle_obsidienne":[0.562,0.158,0.257],"mon_seraphin_dechu":[0.15,0.15,0.16],"mon_sorcier_givre":[0.468,0.221,0.24],"mon_sorciere_marais":[0.492,0.235,0.235],"mon_spectre":[0.434,0.112,0.237],"mon_spectre_blizzard":[0.3,0.12,0.18],"mon_squelette":[0.436,0.106,0.208],"mon_thuriferaire":[0.588,0.175,0.213],"mon_troll_givre":[0.44,0.2,0.3],"mon_ver_roche":[0.368,0.168,0.358],"pet_araignee":[0.675,0.45,0.442],"pet_araignee_evo":[0.695,0.49,0.464],"pet_belette":[0.753,0.292,0.599],"pet_cerf":[0.778,0.203,0.23],"pet_cerf_evo":[0.72,0.42,0.2],"pet_chat_noir":[0.733,0.327,0.599],"pet_chat_noir_evo":[0.729,0.353,0.453],"pet_chauve_souris":[0.55,0.55,0.4],"pet_chauve_souris_evo":[0.5,0.4,0.4],"pet_chouette":[0.74,0.33,0.25],"pet_chouette_evo":[0.6,0.42,0.18],"pet_corbeau":[0.742,0.152,0.315],"pet_corbeau_evo":[0.733,0.166,0.323],"pet_crapaud":[0.703,0.289,0.581],"pet_crapaud_evo":[0.675,0.31,0.562],"pet_drake":[0.733,0.208,0.331],"pet_drake_evo":[0.731,0.389,0.543],"pet_feu_follet":[0.45,0.52,0.3],"pet_feu_follet_evo":[0.45,0.52,0.25],"pet_gargouille":[0.75,0.32,0.38],"pet_gargouille_evo":[0.74,0.45,0.32],"pet_griffon":[0.84,0.27,0.3],"pet_griffon_evo":[0.84,0.2,0.27],"pet_loup":[0.742,0.248,0.437],"pet_loup_evo":[0.739,0.303,0.588],"pet_molosse":[0.816,0.173,0.352],"pet_molosse_evo":[0.709,0.171,0.354],"pet_ours":[0.729,0.29,0.593],"pet_ours_evo":[0.7,0.284,0.601],"pet_renard":[0.745,0.305,0.588],"pet_renard_evo":[0.69,0.507,0.467],"pet_salamandre":[0.87,0.45,0.45],"pet_salamandre_evo":[0.87,0.45,0.45],"pet_sanglier":[0.84,0.55,0.55],"pet_sanglier_evo":[0.82,0.68,0.5],"pet_vipere":[0.78,0.22,0.28],"pet_vipere_evo":[0.72,0.27,0.3]};window.UI_ATLAS={"c":12,"r":10,"s":96,"n":{"aim":0,"amulet":1,"anvil":2,"armor":3,"axe":4,"back":5,"bag":6,"banner":7,"bark":8,"bell":9,"bird":10,"bless":11,"blood":12,"bolt":13,"bones":14,"book":15,"boom":16,"camp":17,"castle":18,"chain":19,"chapel":20,"charge":21,"chest":22,"claw":23,"cleanse":24,"cloak":25,"coin":26,"crown":27,"cup":28,"curse":29,"dagger":30,"daily":31,"dice":32,"drain":33,"ember":34,"essence":35,"eye":36,"fang":37,"fear":38,"feather":39,"fire":40,"flames":41,"flare":42,"flask":43,"flee":44,"frost":45,"furnace":46,"gear":47,"gem":48,"ghost":49,"glove":50,"guard":51,"hammer":52,"hand":53,"heal":54,"heart":55,"helm":56,"herb":57,"horn":58,"hourglass":59,"iron":60,"knives":61,"link":62,"lock":63,"lute":64,"mace":65,"map":66,"mark":67,"mask":68,"meteor":69,"moon":70,"music":71,"note":72,"pact":73,"paw":74,"pierce":75,"pillar":76,"potion":77,"quest":78,"rage":79,"rain":80,"ray":81,"ring":82,"riposte":83,"root":84,"rosary":85,"run":86,"sanct":87,"scroll":88,"scythe":89,"seal":90,"shard":91,"shield":92,"shroud":93,"skull":94,"skullc":95,"smoke":96,"sound":97,"star":98,"stun":99,"sun":100,"sword":101,"swords":102,"tavern":103,"thorn":104,"torch":105,"trap":106,"tree":107,"trophy":108,"vial":109,"wall":110,"weapon":111,"whirl":112,"wind":113}};window.SFX_LIST=["amb_abime","amb_bastion","amb_bourg","amb_catacombes","amb_cimes","amb_citadelle","amb_cite","amb_foret","amb_marais","amb_mines","amb_terres","amb_trone","fx_bell_1","fx_bleed_1","fx_bleed_2","fx_block_1","fx_block_2","fx_buff_1","fx_click_1","fx_coin_1","fx_coin_2","fx_crit_1","fx_crit_2","fx_dark_1","fx_dark_2","fx_dark_3","fx_debuff_1","fx_debuff_2","fx_die_1","fx_die_2","fx_door_1","fx_door_2","fx_fall_1","fx_fire_1","fx_fire_2","fx_fire_3","fx_forge_1","fx_forge_2","fx_frost_1","fx_frost_2","fx_heal_1","fx_heal_2","fx_heal_3","fx_heal_4","fx_heavy_1","fx_heavy_2","fx_hit_1","fx_hit_2","fx_hit_3","fx_hit_4","fx_holy_1","fx_holy_2","fx_holy_3","fx_level_1","fx_lose_1","fx_miss_1","fx_miss_2","fx_open_1","fx_poison_1","fx_poison_2","fx_shock_1","fx_shock_2","fx_shoot_1","fx_shoot_2","fx_slash_1","fx_slash_2","fx_slash_3","fx_step_1","fx_step_2","fx_step_3","fx_stun_1","fx_ult_1","fx_win_1"];window.ART_FLIP=["mon_archer_os","mon_moine_flagellant","mon_spectre","hero_ombre_assassin","hero_ombre_ombre_sang","mon_cardinal"];
 /* ═══════════════════════ Couronne de Cendres — utilitaires ═══════════════════════ */
 "use strict";
 const HASWIN = typeof window !== "undefined" && typeof document !== "undefined";

diff --git a/sw.js b/sw.js
@@ -1,5 +1,5 @@
 /* Service worker : le jeu fonctionne hors connexion une fois installé. */
-const CACHE = "couronne-cendres-760dcd1088", ART_CACHE = "couronne-cendres-art-f16f6b5a";
+const CACHE = "couronne-cendres-6090a482d8", ART_CACHE = "couronne-cendres-art-e8e4f568";
 const SHELL = ["./", "./index.html", "./manifest.webmanifest", "./icon-192.png", "./icon-512.png", "./icon-maskable-512.png", "./apple-touch-icon.png", "./favicon-64.png"];
 self.addEventListener("install", e => { e.waitUntil(caches.open(CACHE).then(c => c.addAll(SHELL)).then(() => self.skipWaiting())); });
 self.addEventListener("activate", e => { e.waitUntil(caches.keys().then(ks => Promise.all(ks.filter(k => k !== CACHE && k !== ART_CACHE).map(k => caches.delete(k)))).then(() => self.clients.claim())); });
